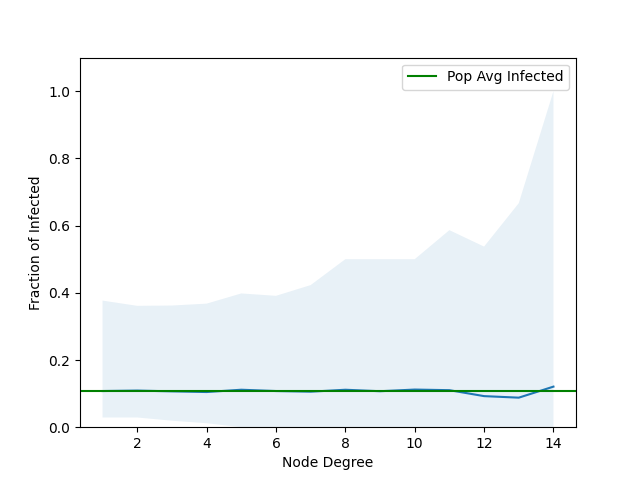
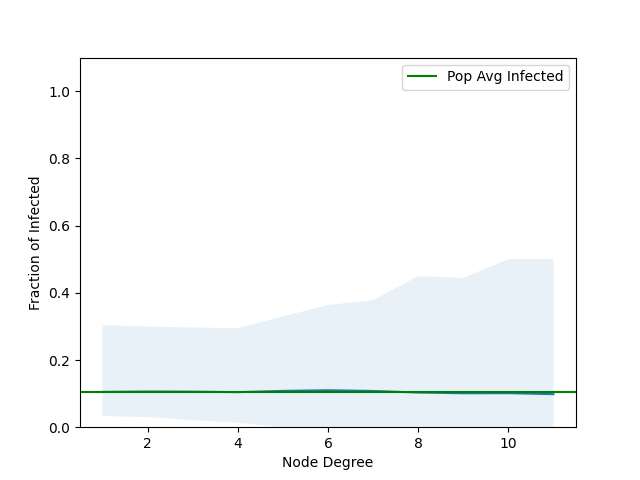
filter out degrees that are too sparse

diff --git a/linear_thres.py b/linear_thres.py
@@ -131,7 +131,7 @@ def single_trial_degree(THRES_UP, get_graph = False):
     df_full = df.copy()
     df["Count"] = 1
     df_deg = df[["Degree", "Count"]].groupby("Degree").sum().reset_index()
-    df_deg = df_deg[df_deg["Count"] >= 2]
+    df_deg = df_deg[df_deg["Count"] >= 3]
     max_deg = df_deg["Degree"].max()
     frac_infected_all = df_full[df_full["Degree"] > 0][["FracInfected"]].mean()
     df = df.groupby("Degree").mean().reset_index()
